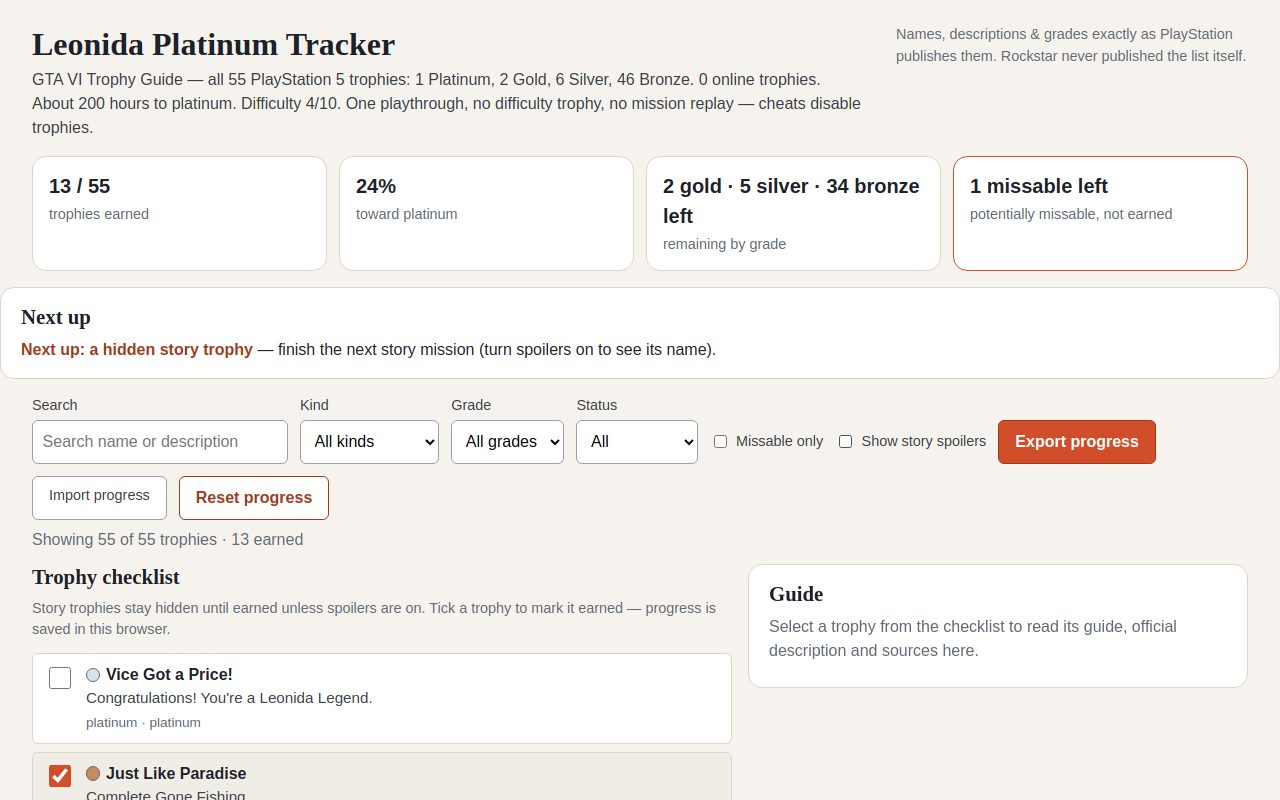
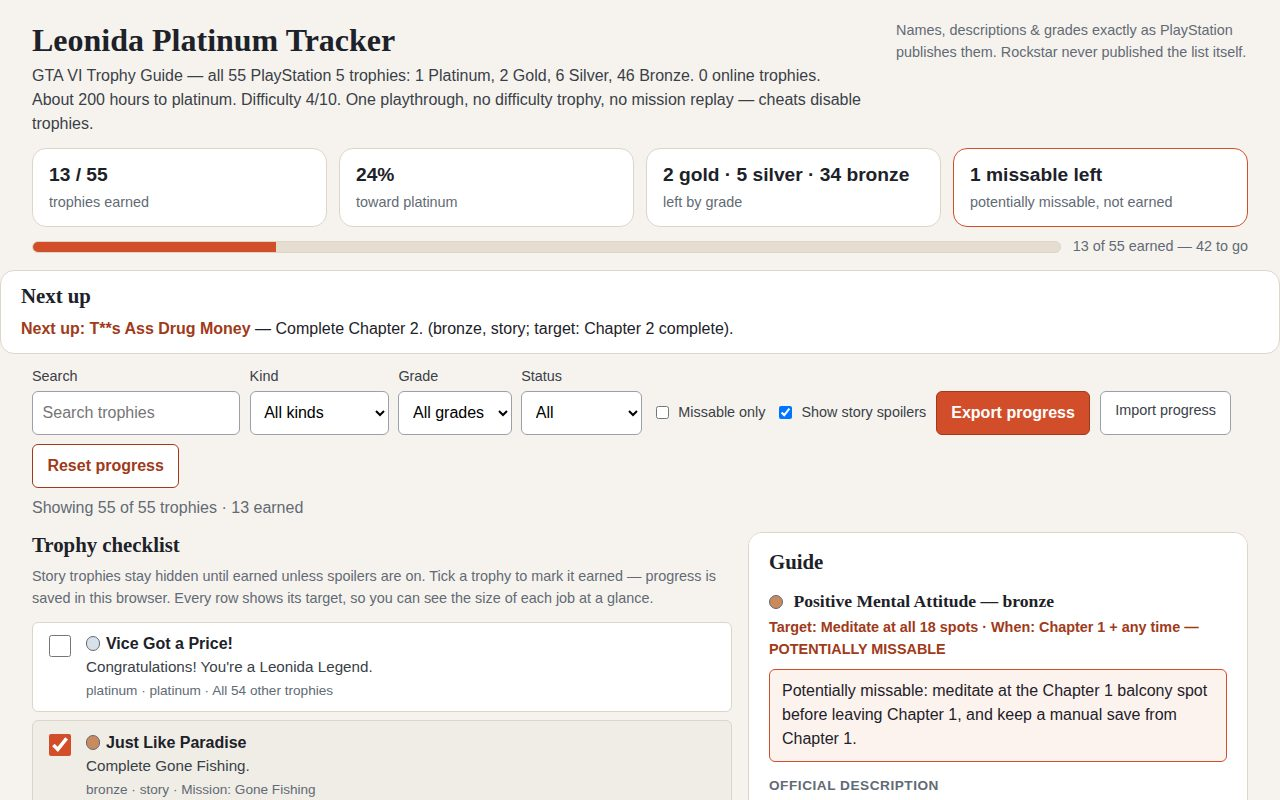
Leonida trophy guide round 2: deeper guides, target/when lines, progress bar, structured roadmap
- Rewrite all 55 guides in own words from PowerPyx facts (counts, unlock
  conditions, tracking menus); Personal Best + Actions Speak Louder now
  pinned down, 4 trophies still honestly unconfirmed
- Add target + when lines per trophy, shown in guide panel and list rows
- Progress bar under KPI cards; grade card no longer wraps
- Roadmap as 3 step cards with hours/counts + missable callout + live
  trophies-by-kind table
- Shareable filtered views (?kind=&grade=&status=&q=&spoilers=)
- Retake all 4 screenshots 1280x800 JPEG q82, each under 256 KiB

Changed region(s): [[0.0, 0.0312, 0.9688, 1.0], [0.6875, 0.0312, 0.9688, 0.0938], [0.5938, 0.9688, 0.75, 1.0]]

diff --git a/app/index.html b/app/index.html
@@ -19,9 +19,13 @@
 <section class="kpi" aria-label="Progress summary">
   <div class="kpi-card"><span class="kpi-num" id="kpi-earned">0 / 55</span><span class="kpi-label">trophies earned</span></div>
   <div class="kpi-card"><span class="kpi-num" id="kpi-pct">0%</span><span class="kpi-label">toward platinum</span></div>
-  <div class="kpi-card"><span class="kpi-num" id="kpi-grades">0 gold · 0 silver · 0 bronze left</span><span class="kpi-label">remaining by grade</span></div>
+  <div class="kpi-card"><span class="kpi-num" id="kpi-grades">2 gold · 6 silver · 46 bronze</span><span class="kpi-label">left by grade</span></div>
   <div class="kpi-card warn"><span class="kpi-num" id="kpi-missable">1 missable left</span><span class="kpi-label">potentially missable, not earned</span></div>
 </section>
+<div class="progress-wrap" aria-label="Progress bar toward platinum">
+  <div class="progress-bar" role="progressbar" aria-valuemin="0" aria-valuemax="55" aria-valuenow="0" id="kpi-bar"><div class="progress-fill" id="kpi-bar-fill"></div></div>
+  <span class="progress-text" id="kpi-bar-text">0 of 55 earned — 55 to go</span>
+</div>
 
 <section class="nextup" aria-label="Next up">
   <h2>Next up</h2>
@@ -29,7 +33,7 @@
 </section>
 
 <section class="controls" aria-label="Filters and progress tools">
-  <label>Search <input id="search" type="search" placeholder="Search name or description" aria-label="Search trophies"></label>
+  <label>Search <input id="search" type="search" placeholder="Search trophies" aria-label="Search trophies"></label>
   <label>Kind
     <select id="kind" aria-label="Filter by kind">
       <option value="all">All kinds</option>
@@ -72,7 +76,7 @@
 <main class="layout">
   <section class="list-col" aria-label="Trophy list">
     <h2>Trophy checklist</h2>
-    <p class="hint">Story trophies stay hidden until earned unless spoilers are on. Tick a trophy to mark it earned — progress is saved in this browser.</p>
+    <p class="hint">Story trophies stay hidden until earned unless spoilers are on. Tick a trophy to mark it earned — progress is saved in this browser. Every row shows its target, so you can see the size of each job at a glance.</p>
     <ul id="rows" class="trophy-list"></ul>
   </section>
 
@@ -86,25 +90,49 @@
 
 <section class="roadmap" id="roadmap" aria-label="Roadmap to platinum">
   <h2>Roadmap to platinum — about 200 hours, 1 playthrough</h2>
-  <ol class="steps">
-    <li><strong>Step 1 — Play the story, save every chapter (60–80 hours).</strong> Finish Chapters 1–5 and the final mission. Make a manual save at the start of each chapter (15 manual saves + 1 autosave exist). Before you leave Chapter 1, meditate at the balcony spot: Positive Mental Attitude is the only trophy flagged as potentially missable, and the Chapter 1 spot may not be reachable later. All other story trophies are unmissable.</li>
-    <li><strong>Step 2 — 100% completion + challenges.</strong> After the story, chase A Long Road: finish all Strangers &amp; Freaks strands (8 needed), all activities (shooting range golds, drone races, races, fishing, arcade, bowling, meditation), 50 challenges, 250 stunts, 100 vehicles discovered, full exploration of Leonida and the collectibles (3 card sets, WAiNK at 100 locations).</li>
-    <li><strong>Step 3 — Cleanup: robberies, money &amp; misc.</strong> Rob 5 bank vaults, an armored truck, 3 shops back-to-back, a jewelry store undetected and one illegal operation per gang; launder $250,000 in Marked Bills, spend $100,000, buy all garages, register 10 vehicles; then the cryptic misc trophies (Personal Best, Actions Speak Louder, Bad Luck I Guess, The Truth Is Out There) — their triggers are not yet pinned down by any source, so check the cited guides for updates instead of guessing.</li>
-  </ol>
-  <h3>Missable trophies</h3>
-  <p><strong>Positive Mental Attitude — potentially missable.</strong> Meditate at every spot across Leonida, including the balcony spot in Chapter 1. No source has confirmed the full spot list or whether the Chapter 1 spot is reachable later, so keep a Chapter 1 manual save until you confirm it. Every other trophy can be earned after the story in free roam.</p>
+  <div class="steps">
+    <article class="step-card">
+      <h3>Step 1 — Play the story, save every chapter</h3>
+      <p class="step-hours">60–80 hours · 12 story trophies</p>
+      <p>Finish Chapters 1–5 and the final mission. Make a manual save at the start and end of each chapter (15 manual saves + 1 autosave exist — 10 saves cover the chapters, rotate the other 5 in free roam). Before you leave Chapter 1, meditate at the balcony spot: Positive Mental Attitude is the only trophy flagged as potentially missable, and the Chapter 1 spot may not be reachable later. All other story trophies are unmissable, and quest givers who vanish for a while always return.</p>
+    </article>
+    <article class="step-card">
+      <h3>Step 2 — 100% completion + challenges</h3>
+      <p class="step-hours">~100 hours · A Long Road (gold)</p>
+      <p>After the story, open the checklist under Progress &gt; Stats &gt; 100% Completion. It is closer to 60% true completion: any 100 optional missions, scan 200 of 277 base-model vehicles with WAiNK, study 100 of 255 animals with binoculars, any 70 of 80 challenges, 300 stunts, all shooting ranges, all drone races, all 8 bank jobs and all 39 gang operations. Nothing on it is missable — finish it all in free roam. This step also pops most activity trophies on the way.</p>
+    </article>
+    <article class="step-card">
+      <h3>Step 3 — Cleanup: robberies, money &amp; misc</h3>
+      <p class="step-hours">~10 hours · robbery, money &amp; misc</p>
+      <p>Rob 5 bank vaults, an armored truck, 3 shops back-to-back, a jewelry store undetected and one illegal operation per gang; launder $250,000 in Marked Bills, spend $100,000, buy all 8 garages ($160,000), register 10 vehicles; then the cryptic misc trophies. Two of them are now pinned down — Personal Best (max strength, both characters) and Actions Speak Louder (500 profile actions) — while In The Beginning…, Bad Luck, I Guess, The Truth Is Out There and Ten Pin are still unconfirmed: check the cited guides for updates instead of guessing.</p>
+    </article>
+  </div>
+  <div class="roadmap-grid">
+    <div class="missable-box">
+      <h3>Missable trophies — 1 of 55</h3>
+      <p><strong>Positive Mental Attitude — potentially missable.</strong> Meditate at every spot across Leonida (18 spots, 10 locations), including the balcony spot in Chapter 1: after the mission “Down to Earth”, Lucia talks about meditating in the kitchen in the morning, then walks to the balcony at Jason’s house — follow her and accept. It adds +1 to the counter but is not listed as a spot, so it is still unconfirmed whether it is required. Do it anyway and keep a Chapter 1 manual save until the trophy pops. Every other trophy can be earned after the story in free roam.</p>
+    </div>
+    <div class="kind-box">
+      <h3>Trophies by kind — 55 total</h3>
+      <table class="kind-table">
+        <thead><tr><th scope="col">Kind</th><th scope="col">Total</th><th scope="col">Earned</th></tr></thead>
+        <tbody id="kind-rows"></tbody>
+      </table>
+    </div>
+  </div>
   <h3>Rules that protect your run</h3>
   <ul>
     <li>No online trophies and no difficulty trophy — play on any difficulty.</li>
     <li>Cheats disable trophies (and the save) — do not use them on your platinum save.</li>
     <li>There is no mission replay and no New Game+ — chapter saves are your only rewind.</li>
-    <li>Kind and missable flags here are this guide's classification from the official descriptions, not PSN data.</li>
+    <li>Optional missions are plentiful (200–300+), so a few missable ones never lock you out of the 100 you need.</li>
+    <li>Kind and missable flags here are this guide’s classification from the official descriptions, not PSN data.</li>
   </ul>
 </section>
 
 <footer class="about">
   <h2>About &amp; sources</h2>
-  <p>Guides are written in this tracker's own words from the official trophy descriptions and the public guides below — never copied from them. Where no source has pinned down a method, the guide says so. Trophy names, descriptions and grades are reproduced exactly as PlayStation publishes them (mirrored by Exophase and PSNProfiles); Rockstar Games has never published the list itself. This tracker is an unofficial fan guide: no Rockstar logo or official artwork is used anywhere. It works fully offline — it loads no file from outside this folder and makes no network request; source links below are plain links you may choose to follow.</p>
+  <p>Guides are written in this tracker’s own words from the official trophy descriptions and the public guides below — never copied from them. Concrete counts, unlock conditions and in-game tracking menus come from PowerPyx’s roadmap (meditation spots, stunt categories, vehicle and animal counts, challenge totals, quest names and money figures). Where no source has pinned down a method, the guide says so. Trophy names, descriptions and grades are reproduced exactly as PlayStation publishes them (mirrored by Exophase and PSNProfiles); Rockstar Games has never published the list itself. This tracker is an unofficial fan guide: no Rockstar logo or official artwork is used anywhere. It works fully offline — it loads no file from outside this folder and makes no network request; source links below are plain links you may choose to follow.</p>
   <ul>
     <li>PowerPyx — GTA 6 Trophy Guide &amp; Roadmap: <a href="https://www.powerpyx.com/gta-6-grand-theft-auto-vi-trophy-guide-roadmap/">powerpyx.com</a></li>
     <li>Exophase — GTA VI trophies: <a href="https://www.exophase.com/game/grand-theft-auto-vi-psn/trophies/">exophase.com</a></li>

diff --git a/app/app.js b/app/app.js
@@ -1,5 +1,8 @@
 // Leonida Platinum Tracker: checklist + guide panel for the 55 GTA VI trophies.
 // Progress lives in localStorage; nothing is fetched from outside this folder.
+// Round 2: shareable filtered views (?kind=robbery&grade=silver&spoilers=on),
+// a progress bar, per-trophy target/when lines, and a live kind breakdown
+// in the roadmap — all rendered from app/data/trophies.json.
 const KEY = 'leonida-platinum-tracker-v1';
 const SPOILER_KEY = 'leonida-platinum-spoilers-v1';
 const SOURCES = {
@@ -10,6 +13,11 @@ const SOURCES = {
   U7BUY: 'https://www.u7buy.com/blog/gta-6-trophies/',
 };
 const KIND_ORDER = ['story', 'activities', 'side-story', 'robbery', 'combat', 'exploration', 'collectibles', 'money', 'misc', 'platinum'];
+const KIND_LABELS = {
+  story: 'Story', 'side-story': 'Side story', activities: 'Activities', robbery: 'Robbery',
+  combat: 'Combat', exploration: 'Exploration', collectibles: 'Collectibles',
+  money: 'Money', misc: 'Misc', platinum: 'Platinum path',
+};
 
 const doc = await (await fetch('data/trophies.json')).json();
 const trophies = doc.trophies;
@@ -46,9 +54,12 @@ function renderKpi() {
   for (const t of trophies) {
     if (!earned.has(t.name) && left[t.grade] !== undefined) left[t.grade] += 1;
   }
-  $('kpi-grades').textContent = `${left.gold} gold · ${left.silver} silver · ${left.bronze} bronze left`;
+  $('kpi-grades').textContent = `${left.gold} gold · ${left.silver} silver · ${left.bronze} bronze`;
   const missLeft = trophies.filter((t) => t.missable && !earned.has(t.name)).length;
   $('kpi-missable').textContent = missLeft === 0 ? '0 missable left' : `${missLeft} missable left`;
+  $('kpi-bar-fill').style.width = `${(n / total) * 100}%`;
+  $('kpi-bar').setAttribute('aria-valuenow', String(n));
+  $('kpi-bar-text').textContent = `${n} of ${total} earned — ${total - n} to go`;
   const next = trophies
     .filter((t) => !earned.has(t.name))
     .sort((a, b) => KIND_ORDER.indexOf(a.kind) - KIND_ORDER.indexOf(b.kind) || a.id - b.id)[0];
@@ -62,7 +73,26 @@ function renderKpi() {
   } else {
     const strong = document.createElement('strong');
     strong.textContent = `Next up: ${next.name}`;
-    $('nextup-text').append(strong, document.createTextNode(` — ${next.description} (${next.grade}, ${next.kind}).`));
+    $('nextup-text').append(strong, document.createTextNode(` — ${next.description} (${next.grade}, ${next.kind}; target: ${next.target}).`));
+  }
+}
+
+function renderKindTable() {
+  const body = $('kind-rows');
+  if (!body) return;
+  body.replaceChildren();
+  for (const kind of KIND_ORDER) {
+    const inKind = trophies.filter((t) => t.kind === kind);
+    const got = inKind.filter((t) => earned.has(t.name)).length;
+    const tr = document.createElement('tr');
+    const name = document.createElement('td');
+    name.textContent = KIND_LABELS[kind];
+    const total = document.createElement('td');
+    total.textContent = String(inKind.length);
+    const earnedCell = document.createElement('td');
+    earnedCell.textContent = `${got} / ${inKind.length}`;
+    tr.append(name, total, earnedCell);
+    body.append(tr);
   }
 }
 
@@ -78,6 +108,10 @@ function renderGuide(t) {
   const h = document.createElement('h3');
   h.append(medalSpan(t), document.createTextNode(` ${t.name} — ${t.grade}`));
   guideBody.append(h);
+  const targetLine = document.createElement('p');
+  targetLine.className = 'target-line';
+  targetLine.textContent = `Target: ${t.target} · When: ${t.when}`;
+  guideBody.append(targetLine);
   if (t.missable) {
     const note = document.createElement('p');
     note.className = 'guide-note';
@@ -125,13 +159,14 @@ function visibleTrophies() {
     if ($('status').value === 'earned' && !earned.has(t.name)) return false;
     if ($('status').value === 'not' && earned.has(t.name)) return false;
     if ($('missable-only').checked && !t.missable) return false;
-    if (q && !(`${t.name} ${t.description}`.toLowerCase().includes(q))) return false;
+    if (q && !(`${t.name} ${t.description} ${t.target} ${t.when}`.toLowerCase().includes(q))) return false;
     return true;
   });
 }
 
 function render() {
   renderKpi();
+  renderKindTable();
   const list = visibleTrophies();
   rowsEl.replaceChildren();
   for (const t of list) {
@@ -168,7 +203,7 @@ function render() {
     desc.textContent = hidden ? 'Story trophy — turn on “Show story spoilers” to reveal its name and description.' : t.description;
     const meta = document.createElement('div');
     meta.className = 'row-meta';
-    meta.textContent = `${t.grade} · ${t.kind}`;
+    meta.textContent = `${t.grade} · ${t.kind} · ${t.target}`;
     if (t.missable) {
       const flag = document.createElement('span');
       flag.className = 'flag-missable';
@@ -232,9 +267,24 @@ $('reset').addEventListener('click', () => {
 });
 
 // Deep link: ?trophy=17 or #trophy-17 opens that trophy's guide on load.
+// Shareable filtered views: ?kind=robbery, ?grade=silver, ?status=not,
+// ?q=stunt and ?spoilers=on apply the matching controls on load.
 const params = new URLSearchParams(location.search);
 const hashMatch = location.hash.match(/^#trophy-(\d+)$/);
 const wanted = Number(params.get('trophy') || (hashMatch ? hashMatch[1] : ''));
 if (wanted && trophies.some((t) => t.id === wanted)) selectedId = wanted;
+for (const [param, id] of [['kind', 'kind'], ['grade', 'grade'], ['status', 'status']]) {
+  const v = params.get(param);
+  if (v && [...$(id).options].some((o) => o.value === v)) $(id).value = v;
+}
+if (params.get('q')) $('search').value = params.get('q');
+if (params.get('spoilers') === 'on') {
+  $('spoiler').checked = true;
+  localStorage.setItem(SPOILER_KEY, 'true');
+}
+if (params.get('spoilers') === 'off') {
+  $('spoiler').checked = false;
+  localStorage.setItem(SPOILER_KEY, 'false');
+}
 
 render();

diff --git a/app/style.css b/app/style.css
@@ -1,4 +1,7 @@
 /* Leonida Platinum Tracker — paper theme, system fonts only, offline. */
+/* Round 2: progress bar under the KPI cards, roadmap step cards + kind table,
+   target line in the guide panel, tighter header/controls so the cover shows
+   more guide text at 1280x800. */
 * { box-sizing: border-box; }
 html { font-size: 16px; }
 body {
@@ -16,7 +19,7 @@ button, select, input[type="search"] { font-size: 1rem; min-height: 44px; }
 
 .site-header {
   display: flex; gap: 2rem; justify-content: space-between; align-items: flex-start;
-  padding: 1.5rem 2rem 1rem; max-width: 1280px; margin: 0 auto;
+  padding: 1.25rem 2rem 0.75rem; max-width: 1280px; margin: 0 auto;
 }
 .subtitle { margin: 0; color: #3a4048; max-width: 60rem; }
 .badge-note { margin: 0; color: #626a75; font-size: 0.9rem; max-width: 22rem; }
@@ -27,27 +30,38 @@ button, select, input[type="search"] { font-size: 1rem; min-height: 44px; }
 }
 .kpi-card {
   background: #ffffff; border: 1px solid #ddd5c8; border-radius: 14px;
-  padding: 0.9rem 1rem; display: flex; flex-direction: column; gap: 0.15rem;
+  padding: 0.75rem 1rem; display: flex; flex-direction: column; gap: 0.15rem;
 }
 .kpi-card.warn { border-color: #d24e2a; }
-.kpi-num { font-size: 1.25rem; font-weight: 700; }
+.kpi-num { font-size: 1.2rem; font-weight: 700; white-space: nowrap; }
 .kpi-label { color: #626a75; font-size: 0.9rem; }
 
+.progress-wrap {
+  max-width: 1280px; margin: 0.6rem auto 0; padding: 0 2rem;
+  display: flex; align-items: center; gap: 0.75rem;
+}
+.progress-bar {
+  flex: 1; height: 12px; background: #e5ded0; border-radius: 6px; overflow: hidden;
+  border: 1px solid #ddd5c8;
+}
+.progress-fill { height: 100%; width: 0; background: #d24e2a; transition: width 0.2s; }
+.progress-text { color: #626a75; font-size: 0.9rem; white-space: nowrap; }
+
 .nextup, .controls, .count-line { max-width: 1280px; margin: 0 auto; padding: 0 2rem; }
-.nextup { margin-top: 1rem; background: #ffffff; border: 1px solid #ddd5c8; border-radius: 14px; padding: 1rem 1.25rem; }
+.nextup { margin-top: 0.75rem; background: #ffffff; border: 1px solid #ddd5c8; border-radius: 14px; padding: 0.75rem 1.25rem; }
 .nextup p { margin: 0; }
 .nextup strong { color: #a03a1a; }
 
 .controls {
-  display: flex; flex-wrap: wrap; gap: 0.75rem; align-items: end;
-  margin-top: 1rem;
+  display: flex; flex-wrap: wrap; gap: 0.6rem; align-items: end;
+  margin-top: 0.75rem;
 }
 .controls label { display: flex; flex-direction: column; gap: 0.2rem; font-size: 0.9rem; color: #3a4048; }
 .controls label.check { flex-direction: row; align-items: center; gap: 0.4rem; min-height: 44px; }
-.controls input[type="search"] { width: 16rem; padding: 0.4rem 0.6rem; border: 1px solid #9aa1ab; border-radius: 6px; background: #fff; }
+.controls input[type="search"] { width: 13rem; padding: 0.4rem 0.6rem; border: 1px solid #9aa1ab; border-radius: 6px; background: #fff; }
 .controls select { padding: 0.4rem 0.6rem; border: 1px solid #9aa1ab; border-radius: 6px; background: #fff; }
 .controls button, .import-btn {
-  min-height: 44px; padding: 0.5rem 1rem; border-radius: 6px; cursor: pointer;
+  min-height: 44px; padding: 0.5rem 0.9rem; border-radius: 6px; cursor: pointer;
   border: 1px solid #9aa1ab; background: #ffffff; color: #1d2129;
 }
 .controls button { background: #d24e2a; border-color: #a03a1a; color: #fff; font-weight: 600; }
@@ -100,10 +114,29 @@ button, select, input[type="search"] { font-size: 1rem; min-height: 44px; }
 .guide-col .sources { font-size: 0.9rem; }
 .guide-col .sources a { margin-right: 0.5rem; }
 .guide-note { background: #fdf3ee; border: 1px solid #d24e2a; border-radius: 6px; padding: 0.6rem 0.75rem; }
+.target-line { font-size: 0.9rem; font-weight: 700; color: #a03a1a; }
 
 .roadmap, .about { max-width: 1280px; margin: 2rem auto 0; padding: 0 2rem 2rem; }
 .roadmap { background: #ffffff; border: 1px solid #ddd5c8; border-radius: 14px; padding: 1.25rem 1.5rem; }
-.roadmap ol.steps li { margin-bottom: 0.75rem; }
+.steps { display: grid; grid-template-columns: repeat(3, 1fr); gap: 0.75rem; margin-top: 0.5rem; }
+.step-card {
+  background: #f6f3ee; border: 1px solid #ddd5c8; border-radius: 14px;
+  padding: 0.9rem 1rem;
+}
+.step-card h3 { margin-top: 0; font-size: 1.05rem; }
+.step-card p { margin: 0.35rem 0; font-size: 0.95rem; }
+.step-hours { font-weight: 700; color: #a03a1a; }
+.roadmap-grid { display: grid; grid-template-columns: 7fr 5fr; gap: 0.75rem; margin-top: 0.75rem; }
+.missable-box {
+  background: #fdf3ee; border: 1px solid #d24e2a; border-radius: 14px;
+  padding: 0.9rem 1rem;
+}
+.missable-box h3 { margin-top: 0; }
+.missable-box p { margin: 0.35rem 0; font-size: 0.95rem; }
+.kind-box h3 { margin-top: 0; }
+.kind-table { border-collapse: collapse; width: 100%; font-size: 0.95rem; }
+.kind-table th, .kind-table td { text-align: left; padding: 0.2rem 0.5rem 0.2rem 0; border-bottom: 1px solid #e5ded0; }
+.kind-table th { color: #626a75; font-size: 0.85rem; text-transform: uppercase; letter-spacing: 0.04em; }
 .about { color: #3a4048; font-size: 0.95rem; }
 .about ul { padding-left: 1.25rem; }
 
@@ -112,4 +145,6 @@ button, select, input[type="search"] { font-size: 1rem; min-height: 44px; }
   .guide-col { position: static; max-height: none; }
   .kpi { grid-template-columns: 1fr 1fr; }
   .site-header { flex-direction: column; gap: 0.5rem; }
+  .steps, .roadmap-grid { grid-template-columns: 1fr; }
+  .kpi-num { white-space: normal; }
 }

diff --git a/main.ts b/main.ts
@@ -8,6 +8,9 @@
 // vendor/makefun-frontend.ts as it is: the scorer requires dossier.json to be byte for
 // byte what its own copy writes.
 //
+// Round 2 note: the only change from round 1 is this comment — the copy logic is
+// unchanged, so the dossier stays byte-identical for the same inputs.
+//
 // Serve it locally with `node serve.ts`, then open http://localhost:8080.
 // Outside the grader's container, MAKEFUN_OUTPUT_DIR stands in for /output:
 //   mkdir -p out && MAKEFUN_OUTPUT_DIR=out node main.ts

diff --git a/README.md b/README.md
@@ -8,11 +8,12 @@ An offline tracker and guide for all 55 PlayStation 5 trophies of Grand Theft Au
 
 ## What it does
 
-- **Checklist** — tick trophies off; progress is saved in the browser (localStorage) and can be exported to JSON and imported back.
-- **Filters** — search by name or description, filter by kind (story, side story, activities, robbery, combat, exploration, collectibles, money, misc, platinum path), by grade, and by earned / not earned; a "missable only" switch.
-- **Spoiler setting** — story trophies stay hidden ("Hidden trophy — earn it to reveal") until earned, unless you turn spoilers on. Hidden trophies cannot be ticked before they are revealed.
-- **Guide for every trophy** — written in this guide's own words, with the official description labelled as such and a Sources line naming the public guides each fact comes from. Where no source has pinned down a method, the guide says so instead of guessing.
-- **Roadmap to platinum** — 3 steps (story + chapter saves, 100% completion + challenges, robbery/money/misc cleanup), the one potentially missable trophy flagged (Positive Mental Attitude — meditate at the Chapter 1 balcony spot), and the rules that protect your run (cheats disable trophies, no mission replay, no difficulty trophy).
+- **Checklist** — tick trophies off; progress is saved in the browser (localStorage) and can be exported to JSON and imported back. Every row shows its target (for example "250 stunts"), so you can see the size of each job at a glance.
+- **Progress at a glance** — KPI cards (earned x/55, percent toward platinum, remaining by grade, missable left) plus a progress bar, and a "Next up" line that names the cheapest unearned trophy.
+- **Filters** — search by name, description, target or timing; filter by kind (story, side story, activities, robbery, combat, exploration, collectibles, money, misc, platinum path), by grade, and by earned / not earned; a "missable only" switch. Filters are shareable as URL parameters, for example `?kind=robbery&grade=silver` or `?q=stunt`.
+- **Spoiler setting** — story trophies stay hidden ("Hidden trophy — earn it to reveal") until earned, unless you turn spoilers on (`?spoilers=on`). Hidden trophies cannot be ticked before they are revealed.
+- **Guide for every trophy** — written in this guide's own words, with the official description labelled as such, a target line and a "when" line (which chapter or stage unlocks it), and a Sources line naming the public guides each fact comes from. Concrete counts, unlock conditions and in-game tracking menus come from PowerPyx's roadmap. Where no source has pinned down a method, the guide says so instead of guessing — only 4 of 55 trophies are still unconfirmed, and the guide says which ones and what they are believed to be.
+- **Roadmap to platinum** — 3 steps as cards (story + chapter saves, 100% completion + challenges, robbery/money/misc cleanup) with hours and trophy counts, the one potentially missable trophy flagged (Positive Mental Attitude — meditate at the Chapter 1 balcony spot, 18 spots in 10 locations), a live trophies-by-kind table, and the rules that protect your run (cheats disable trophies, no mission replay, no difficulty trophy).
 
 ## Run it offline
 
@@ -21,7 +22,7 @@ node serve.ts
 # open http://localhost:8080
 ```
 
-No build step, no dependencies. Open `app/index.html` from any static file server; the app loads nothing from outside its own folder and makes no network request while running.
+No build step, no dependencies. Open `app/index.html` from any static file server; the app loads nothing from outside its own folder and makes no network request while running. Deep links work too: `?trophy=28` opens a trophy's guide, `?kind=activities` filters the list, `?spoilers=on` reveals story trophies.
 
 ## Sources
 
